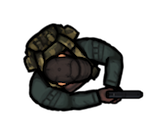
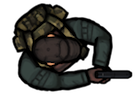
Recuded size of players image as well as added some assets I forgot to added earlier

diff --git a/www/application.js b/www/application.js
@@ -42,7 +42,7 @@ GameServer.prototype = {
 	},
 	checkID : function(id) {
 		var flag = true;
-		
+
 		if(id === "field") {
 			flag = false;
 		}
@@ -70,8 +70,8 @@ io.on('connection', function(user) {
 	user.on('joinGame', function(data) {
 		if(game.checkID(data.id)) {
 			console.log(data.id," is joining the game!");
-			var initX = Math.floor(Math.random() * (900 - 40)) + 40;
-	        var initY = Math.floor(Math.random() * (500 - 40)) + 40;
+			var initX = Math.floor(Math.random() * (1000 - 40)) + 40;
+	        var initY = Math.floor(Math.random() * (400 - 40)) + 40;
 	       	user.emit('addTank', { id: data.id, local: true, x: initX, y: initY, hp: 100 });
 	       	user.broadcast.emit('addTank', { id: data.id, local: false, x: initX, y: initY, hp: 100 });
 	        game.addTank({id: data.id, x: initX, y: initY, hp: 100});

diff --git a/www/css/tank.css b/www/css/tank.css
@@ -6,8 +6,8 @@
 
 .tank1{
 	background-image: url('../img/handgun.png');
-	height: 128px;
-	width: 150px;
+	height: 99px;
+	width: 137px;
 }
 
 .field {
